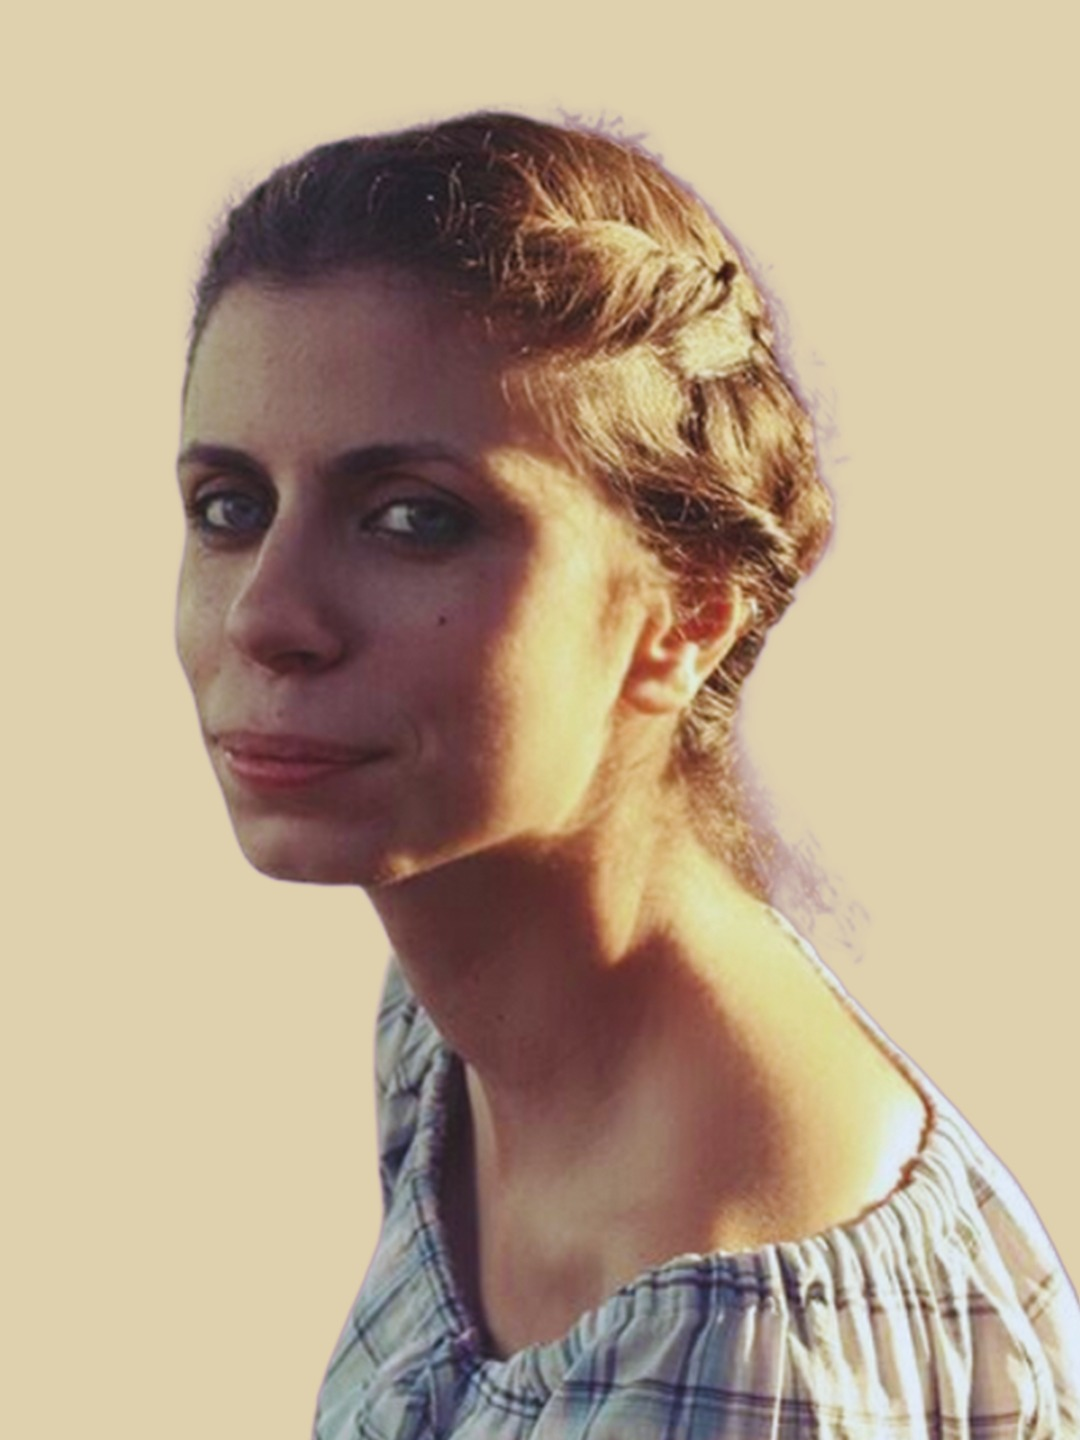
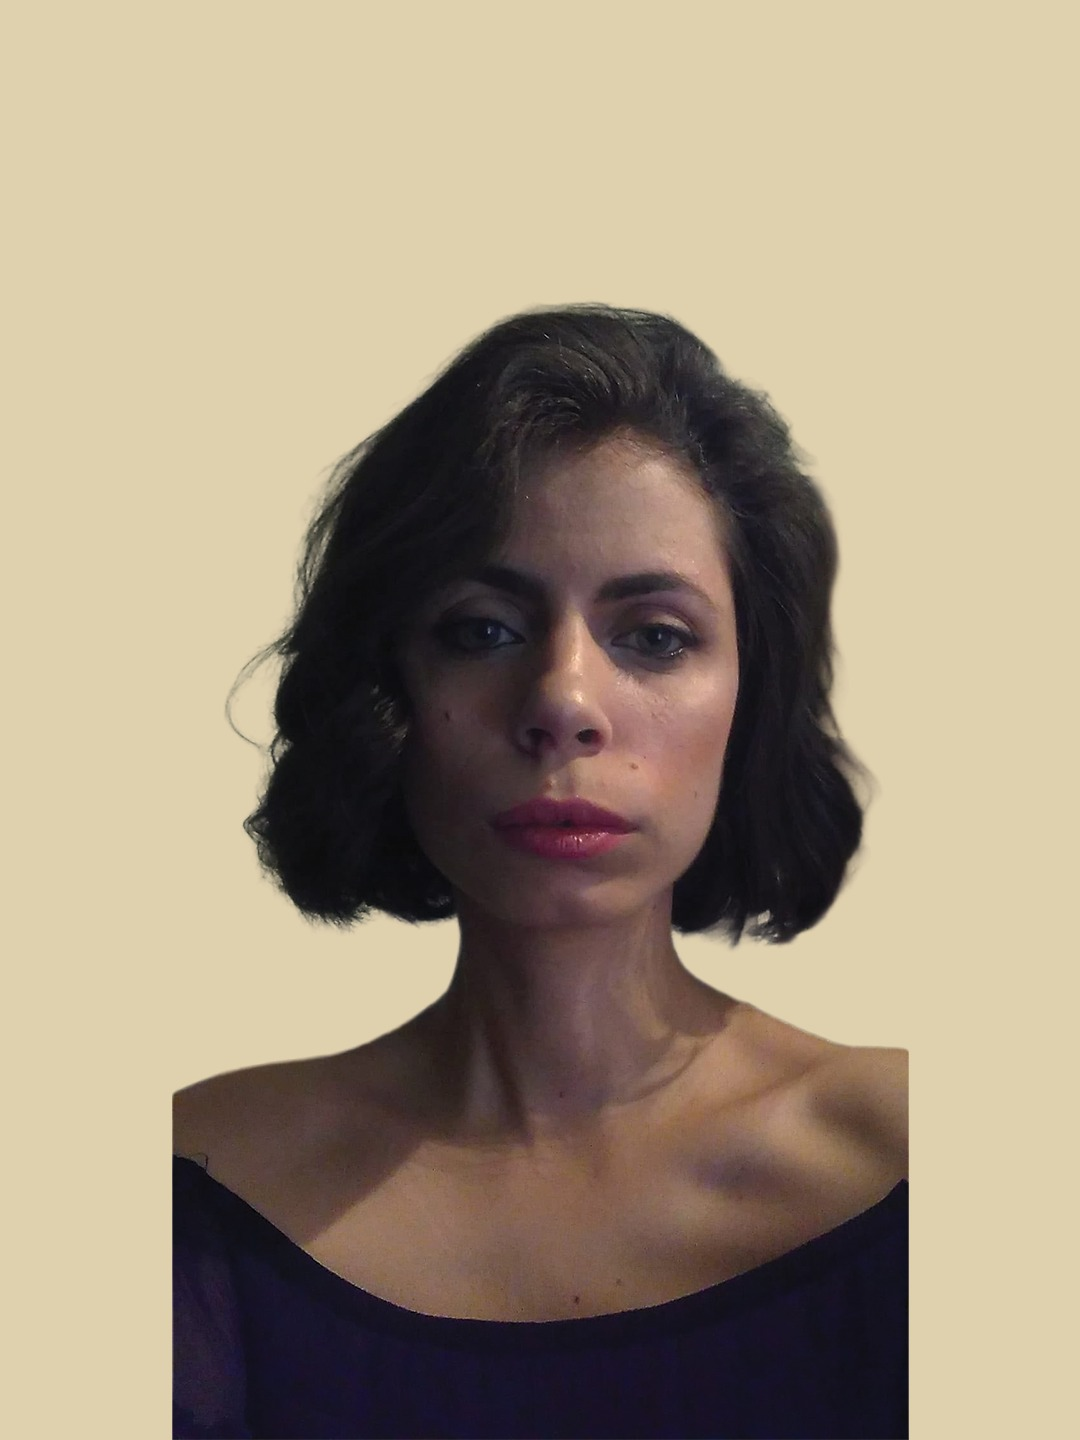
ok

diff --git a/assets/data/team.js b/assets/data/team.js
@@ -93,12 +93,11 @@ My attention doesn't scatter easily. I look quietly. Sometimes in a sentence I g
 We're not just trying to make a text "correct" here. We're trying to make it stronger — not against its author, but together with them.<br><br>
 When your manuscript comes to us, I want it to feel not processed — but understood.`,
       tr: `Ben Büşra.<br><br>
-Bir metni düzeltmiyorum. Onu sahibine geri veriyorum — daha güçlü ama hâlâ onun.<br><br>
-Türk Dili ve Edebiyatı doktoramı tamamlamış biri olarak hiçbir metne sadece okur gözüyle bakamadım. Her zaman hem editör hem edebiyatçı gözüyle baktım. Bu mesleki bir şekilleniş belki ama bir kitap var ki hâlâ dönüp okuyorum: Antonin Artaud'nun Heliogabalos'u. Her şeyin birbirine bağlı olduğunu hissettiren, derin düşüncelere sevk eden bir kitap. Bir editörün favori kitabı olması için alışılmadık bir seçim ama bu benim.<br><br>
-Boş zamanlarımda kendi kıyafetlerimi dikiyorum. Terzi geleneğinin güçlü olduğu bir aileden geliyorum, kumaşlar ve kıyafetler her zaman hayatımın bir parçasıydı. İnsanlar bunu öğrenince şaşırıyor. Ben şaşırmıyorum. Sabırla, dikkatle bir şey oluşturmak: hem terzilikte hem editörlükte aynı his.<br><br>
-Tarihî roman yazan bir yazarımız vardı. Dönemin su tesisatını araştırmıştım. Bunu ona anlattığımda "aklıma hiç gelmezdi" dedi. İşte editörlük tam da bu: Yazarın göremediği yere bakmak. Onunla birlikte. Ona rağmen değil.<br><br>
-Bu işi bir çocuk büyütmek gibi hissediyorum. O kadar kişisel, o kadar hassas. Yazarların heyecanına tanık olmak — bu yüzden bırakmayı düşünemiyorum.<br><br>
-Dosyan geldiğinde üzerinden geçilmiş değil, anlaşılmış olsun isterim.`,
+Ben temel olarak metinle uğraşıyorum, evet ama aslında daha çok sesle uğraşıyorum. Bir yazarın sesi yerli yerinde mi, cümle güçlenirken o iç titreşim kayboluyor mu, ben daha çok oralara bakıyorum.<br><br>
+Bazı metinler teknik olarak düzelir, belki mükemmelleşir ama ruhu geride kalır. Benim içime sinmeyen şey tam da bu. Bir metin toparlanabilir, güçlenebilir, daha berrak hâle gelebilir ama sonunda hâlâ sahibine ait durmuyorsa, orada bir şey eksik kalmıştır.<br><br>
+Ben dikkatimi kolay dağıtmam. Sessizce bakarım. Bazen bir cümlede en çok, hiç yazılmamış yere takılırım. Nefes nerede kesilmiş, duygu nerede geri çekilmiş, ses nerede incinmiş… Sanırım benim editörlüğüm biraz da orada başlıyor.<br><br>
+Biz burada bir metni "düzgün" hâle getirmeye çalışmıyoruz sadece. Onu, sahibine rağmen değil; sahibiyle birlikte güçlendirmeye çalışıyoruz.<br><br>
+Dosyan bize geldiğinde, üzerinden geçilmiş değil; anlaşılmış olsun isterim.`,
       fr: `Je suis Büşra.<br><br>
 Je travaille avec des textes, oui. Mais en réalité, je travaille davantage avec des voix. Est-ce que la voix d'un auteur est vraiment à sa place, est-ce que cette vibration intérieure se perd à mesure que la phrase se renforce — c'est là que je regarde davantage.<br><br>
 Car certains textes s'améliorent techniquement mais leur âme reste en retrait. C'est exactement ce qui ne me convient pas. Un texte peut se rassembler, se renforcer, devenir plus clair ; mais s'il n'appartient toujours pas à son auteur à la fin — il manque quelque chose là.<br><br>
@@ -184,12 +183,11 @@ I'm not someone who rushes. I don't try to get someone to open up by pressuring 
 For us, an author isn't someone greeted with "let's see what they sent." Especially not at the first step. Because the first step is sometimes heavier than the text itself.<br><br>
 When you reach out to us, I want you to feel not like you've applied somewhere — but like someone has quietly made room for you.`,
       tr: `Ben Sibel.<br><br>
-Dışarıdan ciddi görünürüm. Beni tanıyanlar kısa sürede bunun sadece ilk izlenim olduğunu fark eder. Aslında çok gülen, eğlenmeyi seven, komik tarafı baskın biriyim. Ama bir yazarın en hassas anında yanındayken, o ciddiyete ihtiyaç var. İkisini de biliyorum.<br><br>
-Genelde insanların en kırılgan olduğu anda yanlarındayım. Daha hiçbir şey netleşmemişken, "göndereyim mi, bekleteyim mi?" arasında gidip gelirken… O anı çok önemsiyorum. Çünkü çoğu zaman mesele sadece kitap değildir — insan bazen kendini gösterip göstermemeye karar veriyordur.<br><br>
-İlk görüşmemizden sonra bir yazarım "sesiniz bana güven verdi" demişti. O cümle beni hem mutlu etmiş hem heyecanlandırmıştı. Sonrasında yalnızca ilk kitabını değil, birkaç kitabını daha birlikte yayımladık. Güven bir kez kurulduğunda, her şey onun üzerine inşa ediliyor.<br><br>
-Bir yazarımızın kitabını okurken kendimi o kadar içinde buldum ki merakıma yenilip aradım: "Bunları gerçekten yaşadınız mı?" diye sordum. Cevabı ne olursa olsun, o soru benim bu işe bakışımı anlatıyor. Bir metin beni oraya götürüyorsa, doğru yerdeyim demektir.<br><br>
-Çalışmadığımda kızlarımla vakit geçiriyorum. Birlikte gezmek, sohbet etmek, bazen sadece evde sakin bir gün. Onlarla geçirdiğim zaman bana denge veriyor ve bu denge her yazara da vermek istediğim şey.<br><br>
-Bize ulaştığında, bir yere başvurmuş gibi değil — biri sana sessizce yer açmış gibi hissetmeni isterim.`,
+Ben genelde insanların en hassas olduğu anda yanlarındayım. Daha hiçbir şey netleşmemişken, daha kendi yazdığına bile tam nasıl bakacağını bilemezken, daha "göndereyim mi, bekleteyim mi?" arasında gidip gelirken…<br><br>
+Ben o anı çok önemsiyorum çünkü çoğu zaman mesele sadece kitap değildir. İnsan bazen aslında kendini gösterip göstermemeye karar veriyordur. Bir metni paylaşmak, bazen sandığımızdan çok daha kişisel bir şeydir.<br><br>
+Ben acele ettiren biri değilim. İnsanı zorlayarak açmaya çalışmam. Birinin gerçekten konuşabilmesi için önce rahatlaması gerektiğini bilirim. Bazen bir insana yapılabilecek en büyük iyilik, ona hız değil, alan vermektir.<br><br>
+Bizim için bir yazar, "bakalım ne göndermiş" diye karşılanan biri değildir. Özellikle ilk adımda hiç değildir çünkü ilk adım bazen metinden daha ağırdır.<br><br>
+Bize ulaştığında, sanki bir yere başvurmuş gibi değil; sanki biri sana sessizce yer açmış gibi hissetmeni isterim.`,
       fr: `Je suis Sibel.<br><br>
 Je suis généralement aux côtés des gens au moment où ils sont le plus vulnérables. Quand rien n'est encore clair. Quand quelqu'un ne sait même pas encore comment regarder ce qu'il a écrit. Quand il hésite encore entre « Dois-je l'envoyer ou attendre ? »<br><br>
 Je prends ce moment très au sérieux. Parce que la plupart du temps, il ne s'agit pas que du livre. Parfois, quelqu'un est en train de décider s'il veut se montrer ou non. Partager un texte peut parfois être bien plus personnel qu'on ne le pense.<br><br>
@@ -205,7 +203,7 @@ Quand tu nous contactes, je veux que tu ne te sentes pas comme si tu avais postu
     role: {
       de: 'Autorenberaterin · Content & Social Media Managerin',
       en: 'Author Consultant · Content & Social Media Manager',
-      tr: 'Yazar Danışmanı · İçerik ve Sosyal Medya Sorumlusu',
+      tr: 'Yazar Koçu · İçerik ve Sosyal Medya Sorumlusu',
       fr: 'Conseillère Auteurs · Responsable Contenu & Réseaux Sociaux',
     },
     tagline: {
@@ -227,12 +225,12 @@ I love working with authors because I believe there's a separate world behind ev
 At the same time, I work in content, social media and visual production. I take active roles at many points — from book promotional photography to preparing digital content. This gives me the opportunity to see not only the writing process of a book, but also how it reaches readers, holistically.<br><br>
 I completed Creative Writing training at the Müjdat Gezen Arts Centre and am completing the Author Coaching programme. But the most precious thing for me is when an author feels understood.<br><br>
 When you reach out to us, I want you to feel not just directed somewhere — but genuinely cared for.`,
-      tr: `Ben Nilay.<br><br>
-Sessizim. Dışarıdan öyle görünürüm en azından ama zihmim hiç susmaz. Yolda karşılaştığım bir bakış, duyduğum yarım bir cümle, yağmurun İstanbul kaldırımlarına vurması — bunlar bende uzun süre yaşar ve çoğu zaman bir hikâyenin başlangıcına dönüşür.<br><br>
-Bir yazarla tanıştığımda ilk sorduğum şey "Ne yazmış?" değil, "Neden yazmış?" Çünkü arkasını bilmeden önünü göremezsin. Yazarlarımızın eserlerinin hem yayın sürecinde hem de doğru okura ulaşmasında yanlarındayım. Ama benim için bu iki şey hiçbir zaman ayrı olmadı. İnsan önce anlaşılır, sonra görünür.<br><br>
-Bu işe yayıncılık dünyasından değil, hayatın içinden geldim. Farklı yaşamlara, farklı mücadelelere tanıklık ettim. Bu da bana şunu öğretti: Hikâyelere önce kalple, sonra teknikle yaklaşmak. Kendi yazdığım romanda bir karakterin çocukluğunu anlatırken fark ettim bunu. Onu anlatmıyordum, onunla hissediyordum. "Tam oldu" dediğim an tam da orasıydı.<br><br>
-Çalışmadığımda İstanbul'u fotoğraflıyorum. Özellikle yağmurlu havalarda ıslanan kaldırımları, camlardaki damlaları, şemsiyelerin altında akan hayatı. Bana hem huzur hem ilham veriyor.<br><br>
-Bize ulaştığında şunu hissetmeni isterim: Burada sadece eserin değil, sen de görülürsün.`,
+      tr: `Merhaba, ben Nilay.<br><br>
+Yayınevimizde yazarlarla birebir iletişim kuruyor, eserlerinin hem yayın sürecinde hem de görünürlüğünde aktif rol alıyorum. Kitaplarımızın doğru okura ulaşması ve hak ettiği değeri görmesi, çalışmalarımızın en önemli parçalarından biri.<br><br>
+Her metnin arkasında kendine özgü bir dünya olduğuna inanıyorum. Bu nedenle bir yazarı yalnızca dosyasıyla değil, duygularıyla da tanımaya çalışıyorum. Ne anlatmak istediğini, hangi duygularla yazdığını ve kelimelerinin ardındaki sesi anlamak benim için büyük önem taşıyor.<br><br>
+Aynı zamanda içerik üretimi, sosyal medya yönetimi ve görsel tasarım alanlarında çalışıyorum. Kitap tanıtımlarından dijital içeriklere kadar birçok aşamada aktif olarak yer alıyor, eserlerin okurlarla buluşma sürecini destekliyorum.<br><br>
+Müjdat Gezen Sanat Merkezi'nde Yaratıcı Yazarlık eğitimi aldım ve Yazar Koçluğu alanında eğitimimi sürdürdüm.<br><br>
+Eğer yolumuz kesişirse, yalnızca yönlendiren değil; tıkandığınız noktada yanınızda duran, gerçekten dinleyen, çözüm odaklı yaklaşan ve süreciniz boyunca sizi destekleyen biriyle çalıştığınızı hissetmenizi isterim.`,
       fr: `Je suis Nilay.<br><br>
 Je travaille à la fois directement avec les auteurs et étroitement sur la façon dont notre maison d'édition apparaît au monde extérieur. Ce que cela signifie pour toi : il y a quelqu'un qui, d'un côté, se tient à tes côtés dans ton parcours d'auteur, et de l'autre, prend au sérieux la visibilité et la présentation de ton œuvre.<br><br>
 J'aime travailler avec les auteurs parce que je crois qu'il y a un monde séparé derrière chaque texte. Comprendre un auteur, pour moi, commence non seulement par lire son manuscrit — mais aussi par ressentir ce qu'il veut exprimer, d'où il vient et comment il s'exprime.<br><br>
@@ -318,11 +316,11 @@ I'm meticulous. But not in that harsh, suffocating way. More in the kind that pu
 We don't underestimate details here. Because sometimes what you call a detail is the quietest way to tell an author: "Your work matters to me."<br><br>
 You don't have to follow every stage one by one. But I want you to know this: Your work doesn't get lost here.`,
       tr: `Ben Neşe.<br><br>
-Ben daha çok görünmeyen yerdeyim. Ve bu benim için bir şikâyet değil; tam tersine, bir tercih.<br><br>
-Tasarım benim için göze çarpmak değil, işe yaramak demek. Bir kitapta karmaşık fontlar yerine sade ve okunabilir olanı seçmek — bu küçük bir karar gibi görünür. Ama okur sayfaları çevirirken hiç takılmıyorsa, işte orada benim emeğim var. Görünmez ama hissedilir.<br><br>
-Bazen bitirdiğim bir tasarıma dönüp bakıyorum. Kendime güvenimi tazelemek için. O an "tam oldu" dediğim anların izini görüyorum ve bu bana yeter.<br><br>
-Çalışmadığımda film izliyor ve boya yapıyorum. İkisi de aynı şey aslında: Bir şeyi katman katman oluşturmak. Sabırla. Sessizce.<br><br>
-Sen her aşamayı takip etmek zorunda değilsin ama şunu bilmeni isterim: Eserin burada gözden kaçmaz.`,
+Ben daha çok görünmeyen yerdeyim. Zaten çoğu zaman bir şey görünmüyorsa ve yine de her şey yerli yerindeyse, orada iyi bir emek vardır.<br><br>
+Dosyanın kitaba dönüşürken dağılmaması, eksilmemesi, özensizleşmemesi için çalışıyorum çünkü bir kitabın son hâli, sadece ne anlattığıyla değil, nasıl taşındığıyla da ilgilidir. Bazen insan tam da bu görünmeyen yerde saygı görür.<br><br>
+Ben titiz biriyim ama sert, boğucu şekilde değil. Daha çok insanın içini rahatlatan türden. Her şeyin yerli yerinde olması, bazen çok sessiz ama çok güçlü bir güven duygusu yaratır.<br><br>
+Biz burada detayı küçümsemiyoruz çünkü detaya önem vermek, bir yazara "senin emeğin benim için önemli" demenin en sessiz yoludur.<br><br>
+Sen her aşamayı tek tek takip etmek zorunda değilsin ama şunu bilmeni isterim: Eserin burada gözden kaçmaz.`,
       fr: `Je suis Neşe.<br><br>
 Je suis surtout dans l'endroit invisible. Quand quelque chose ne se voit pas et que pourtant tout est à sa place — c'est là qu'il y a généralement un bon travail.<br><br>
 Je travaille pour que ton manuscrit ne se disperse pas, ne diminue pas, ne devienne pas négligé sur son chemin vers le livre. Car la forme finale d'un livre ne dépend pas seulement de ce qu'il raconte — mais aussi de la façon dont il est porté. Et parfois quelqu'un reçoit le plus de respect précisément à cet endroit invisible.<br><br>
@@ -393,10 +391,10 @@ I like clarity. Not things that are patched together afterwards, but things that
 We don't build trust here only with warmth. We build it with correctness too. With transparency. With solidity.<br><br>
 Even where there are numbers, a person can feel protected. That's exactly what is precious to me.`,
       tr: `Ben Arzu.<br><br>
-Benim alanım rakamlar, kayıtlar, düzen. Dışarıdan bakınca duygudan uzak gibi görünebilir ama bana sorarsan güvenin en derin tarafı tam da burada kurulur.<br><br>
-Yıllar önce köy ilkokulunda öğretmenlik yaptım. Orada zeki, çalışkan ama okuyabileceği bir ortamı olmayan bir öğrencim vardı. Kardeşimi parasız yatılı okul sınavına götürürken onu da yanıma aldım. Sınavı kazandı. Öğretmen oldu. Yıllar sonra bana ulaştı. O bana güvenmişti, ben de doğru olanı yaptığımı biliyordum. İşte ben buyum. Rakamların içinde bile olsam, önce insanı görürüm.<br><br>
-Duygusal biriyim, bunu saklamamı bekleme. Ama iş söz konusu olduğunda rakamlar rakam, kuruş kuruştur çünkü bir yazarın güvende hissedebilmesi için her şeyin net ve şeffaf olması gerekir. Karışıklık yorar. Netlik ise sessizce rahatlatır.<br><br>
-Çalışmadığımda kitap okuyorum, geziyorum, sevdiklerimle vakit geçiriyorum. Kendime tam dokunan şeyi hâlâ arıyorum ve bu dürüstlük de benim bir parçam.<br><br>
+Benim alanım daha çok rakamlar, kayıtlar, düzen… Dışarıdan bakınca duygudan uzak gibi görünebilir ama bana sorarsan güvenin en derin tarafı biraz da burada kurulur.<br><br>
+İnsan güzel sözleri, güzel kitapları sever, evet ama gerçekten rahatlaması için bir yerde işlerin temiz yürümesi gerekir. Karışıklık yorar. Belirsizlik insanın içini daraltır. Netlik ise çoğu zaman sessizce rahatlatır.<br><br>
+Ben netliği severim. Sonradan toparlanan şeyleri değil, baştan açık olan şeyleri. Herkesin, neyin nasıl yürüdüğünü bilebildiği, içi rahat bir düzeni.<br><br>
+Biz burada güveni sadece sıcaklıkla kurmuyoruz. Düzenle de kuruyoruz. Şeffaflıkla da. Sağlamlıkla da.<br><br>
 Rakamların konuştuğu bir alanda bile insan kendini korunmuş hissedebilir. Benim için kıymetli olan tam da bu.`,
       fr: `Je suis Arzu.<br><br>
 Mon domaine, c'est surtout les chiffres, les registres, l'ordre. Vu de l'extérieur, ça peut sembler loin des émotions. Mais si tu me demandes, le côté le plus profond de la confiance se construit un peu ici aussi.<br><br>